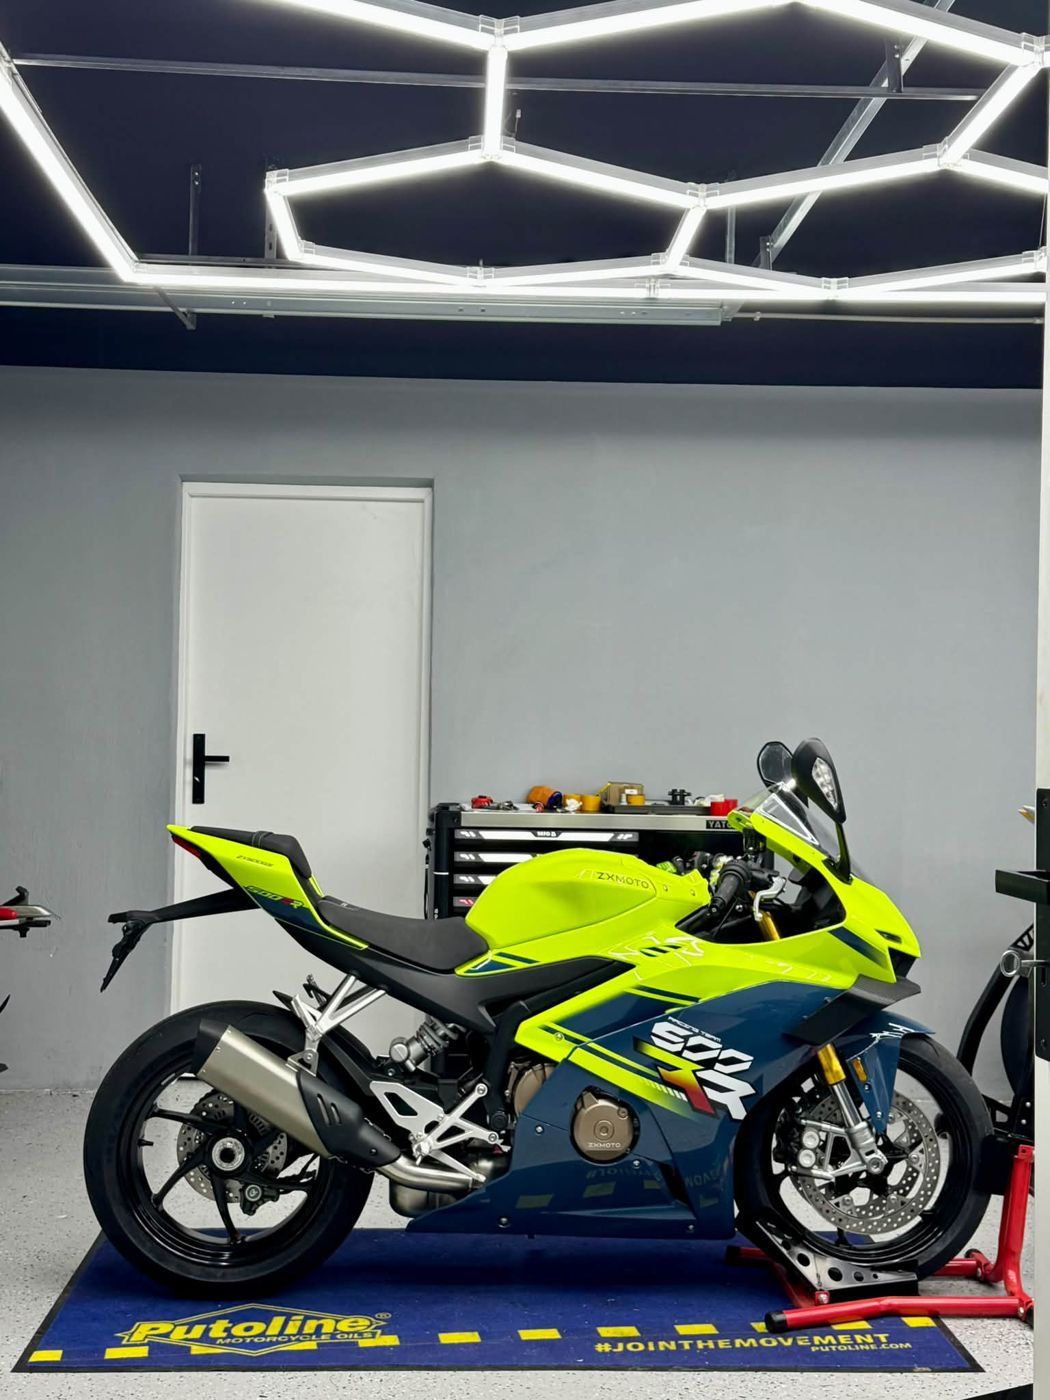
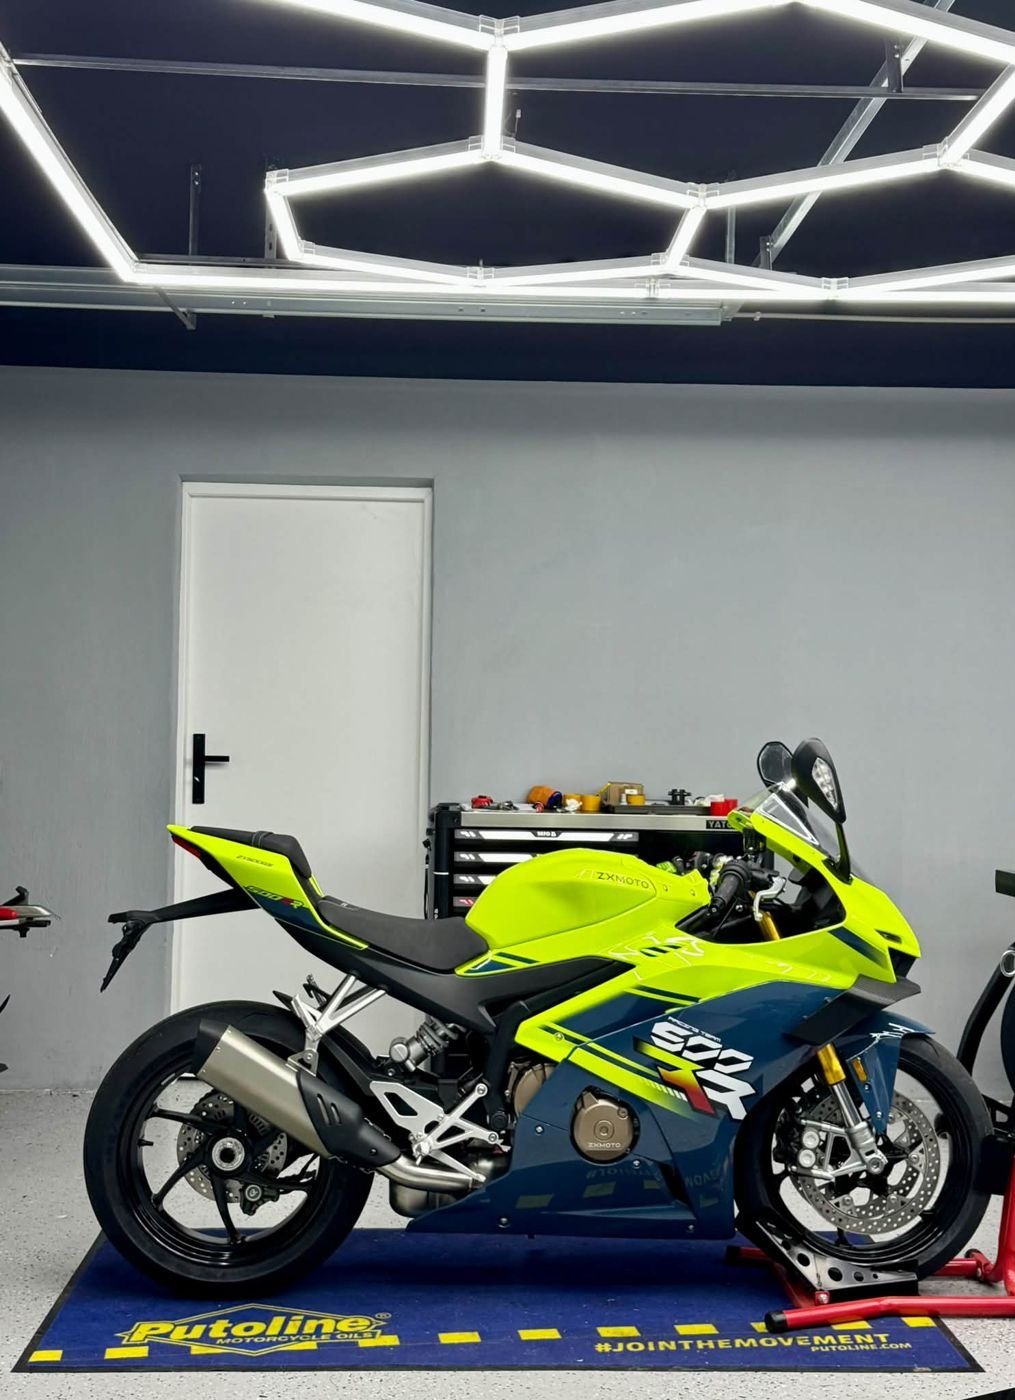
Remove yellow backdrop from hero photo and center it
Drop the decorative offset rectangle behind the home page hero photo
so the image sits flush in its column, and crop a light vertical strip
off the right edge of hero.jpg that made the photo look shifted.

diff --git a/assets/css/style.css b/assets/css/style.css
@@ -151,12 +151,7 @@ h1, h2, h3, h4 { color: var(--ink-strong); line-height: 1.15; margin: 0 0 .5em; 
 .hero h1 { color: #fff; font-size: clamp(38px, 6vw, 68px); font-weight: 900; letter-spacing: -.02em; text-transform: uppercase; }
 .hero h1 em { font-style: normal; color: var(--accent); }
 .hero .lead { color: var(--on-dark-muted); }
-.hero-media { position: relative; margin: 0 28px 28px 0; } /* miejsce na żółty prostokąt, żeby nie wychodził poza siatkę */
-.hero-media::before {
-  /* żółty prostokąt z logo, przesunięty za zdjęcie */
-  content: ""; position: absolute; inset: 28px -28px -28px 28px; background: var(--accent); border-radius: var(--radius);
-}
-.hero-media img { position: relative; width: 100%; aspect-ratio: 4 / 5; object-fit: cover; border-radius: var(--radius); }
+.hero-media img { width: 100%; aspect-ratio: 4 / 5; object-fit: cover; border-radius: var(--radius); }
 
 @media (max-width: 860px) {
   .hero .wrap { grid-template-columns: 1fr; }

diff --git a/index.html b/index.html
@@ -87,7 +87,7 @@
           </div>
         </div>
         <div class="hero-media">
-          <img src="assets/img/hero.jpg" alt="Motocykl sportowy ZX-Moto na stanowisku w warsztacie LTD34" width="1050" height="1400" fetchpriority="high">
+          <img src="assets/img/hero.jpg" alt="Motocykl sportowy ZX-Moto na stanowisku w warsztacie LTD34" width="1015" height="1400" fetchpriority="high">
         </div>
       </div>
     </section>
